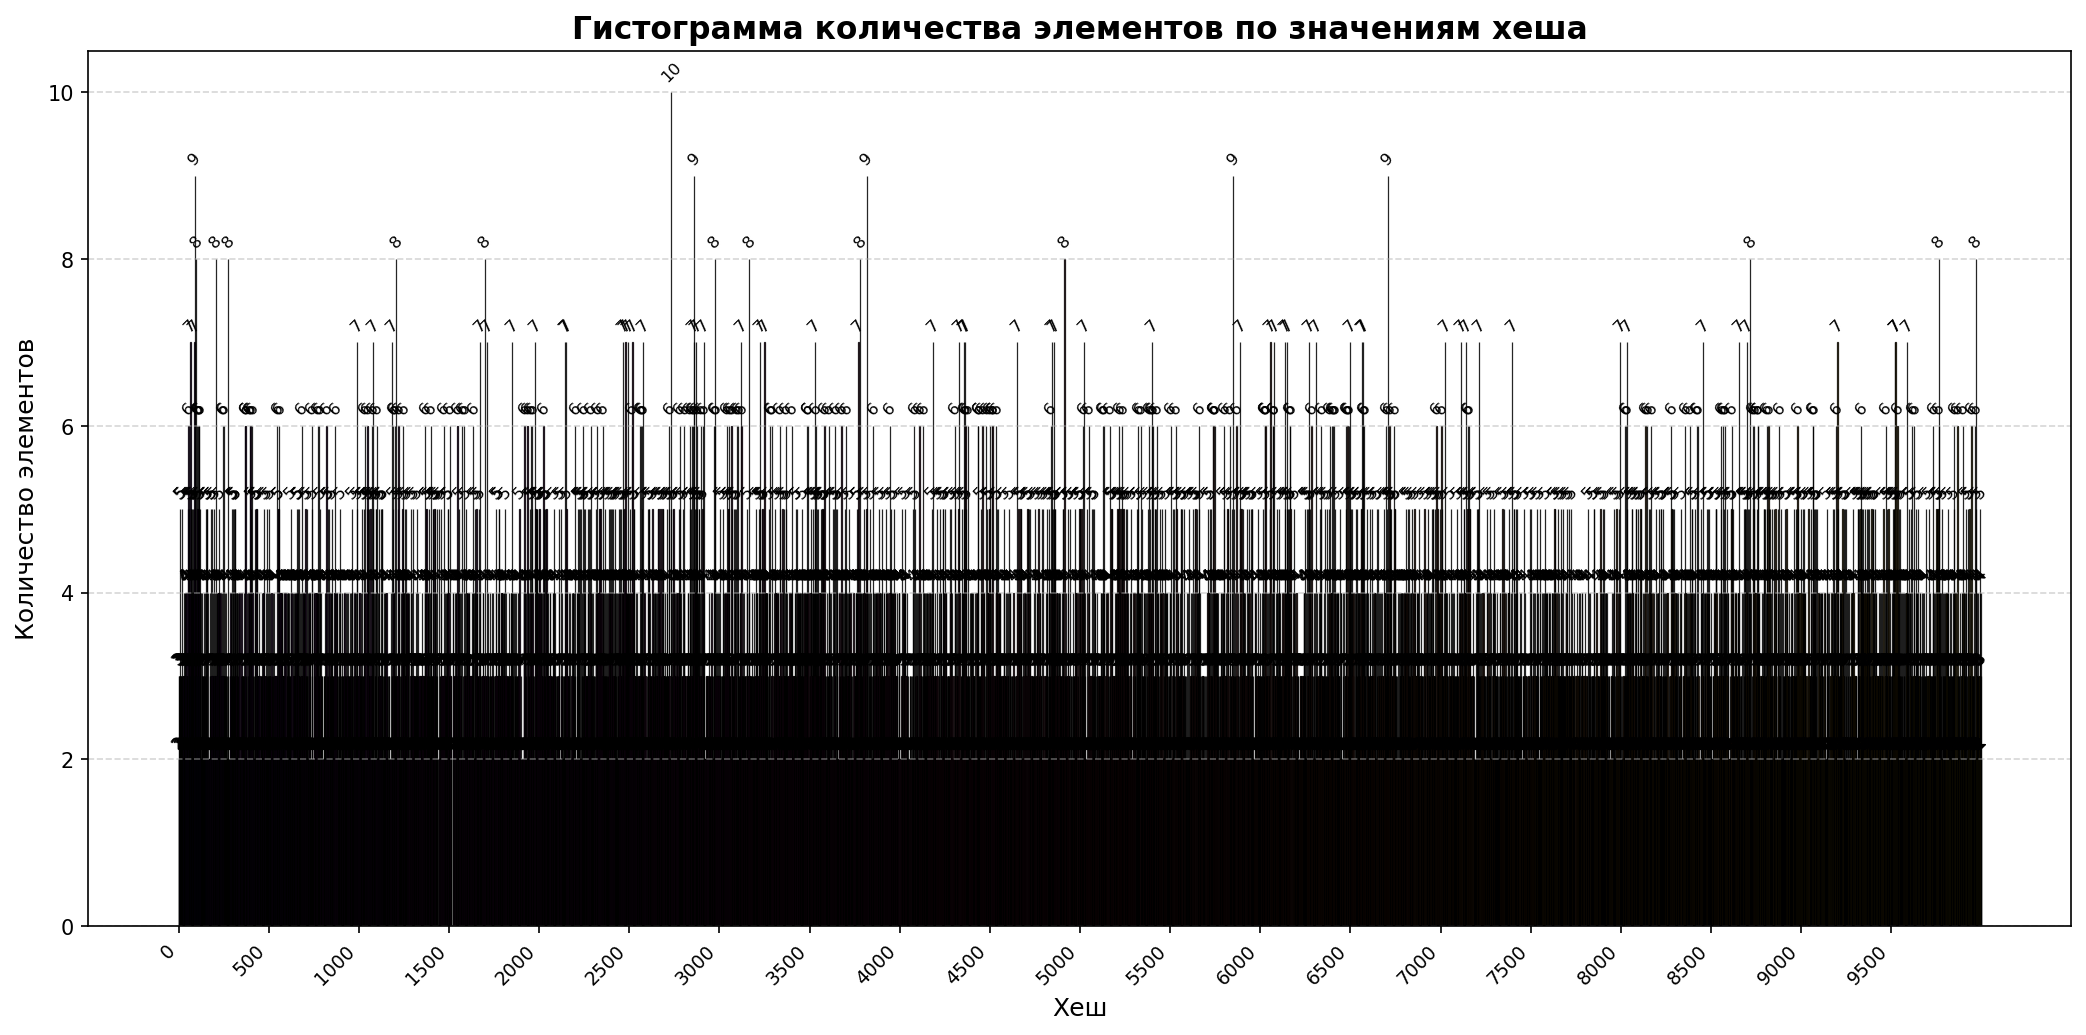
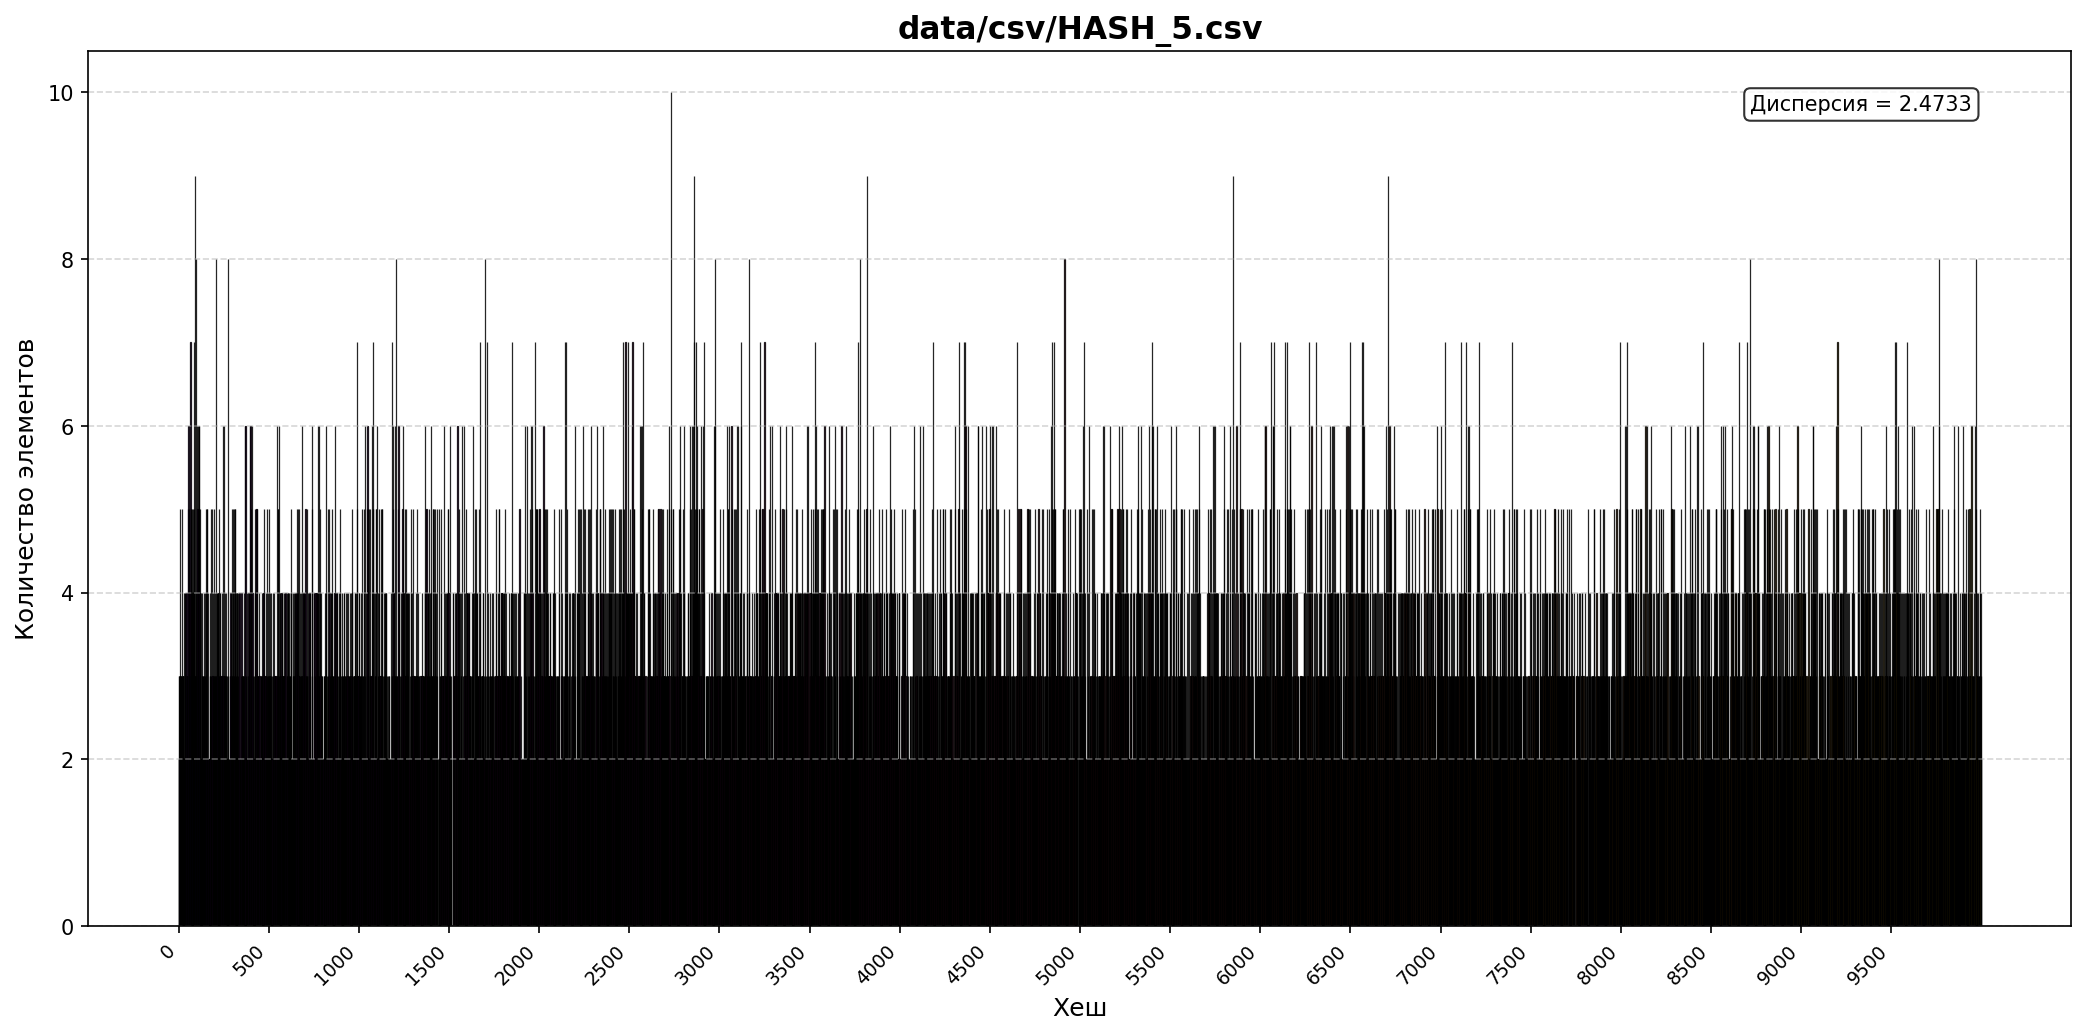
var in histo

diff --git a/build_histo.py b/build_histo.py
@@ -22,12 +22,11 @@ def read_data (filename):
 
                 except ValueError:
                     print (f"Пропущена строка с ошибкой: {line}")
+
     return hashes, counts
 
 def main():
     if len (sys.argv) < 2:
-        print ("Использование: python plot_hist.py <файл_с_данными> [выходной_файл.png]")
-        print ("Пример: python plot_hist.py data.txt result.png")
         sys.exit (1)
 
     data_filename   = sys.argv[1]
@@ -43,20 +42,22 @@ def main():
     sorted_hashes = [p[0] for p in sorted_pairs]
     sorted_counts = [p[1] for p in sorted_pairs]
 
+    variance = np.var (sorted_counts)
+    print (f"Дисперсия распределения по хешам: {variance:.4f}")
+
     plt.figure (figsize = (14, 7))
-    bars = plt.bar (sorted_hashes, sorted_counts, width = 0.8,
+    bars = plt.bar (sorted_hashes, sorted_counts, width = 0.4,
                    color = plt.cm.plasma (np.linspace (0.2, 0.9, len (sorted_hashes))),
                    edgecolor = 'black', linewidth = 0.6, alpha = 0.85)
 
-    max_count = max (sorted_counts) if sorted_counts else 1
-    for bar, cnt in zip (bars, sorted_counts):
-        if cnt > 0:
-            plt.text (bar.get_x () + bar.get_width () / 2, bar.get_height () + max_count * 0.01,
-                     str (cnt), ha = 'center', va = 'bottom', fontsize = 8, rotation = 45)
-
     plt.xlabel ('Хеш', fontsize = 12)
     plt.ylabel ('Количество элементов', fontsize = 12)
-    plt.title ('Гистограмма количества элементов по значениям хеша', fontsize = 15, fontweight = 'bold')
+    plt.title (data_filename, fontsize = 15, fontweight = 'bold')
+
+    plt.text (0.95, 0.95, f'Дисперсия = {variance:.4f}',
+             transform = plt.gca().transAxes, fontsize = 10,
+             verticalalignment = 'top', horizontalalignment = 'right',
+             bbox = dict (boxstyle = 'round', facecolor = 'white', alpha = 0.8))
 
     step = max (1, len (sorted_hashes) // 20)
     plt.xticks (sorted_hashes[::step], rotation = 45, ha = 'right', fontsize = 9)
